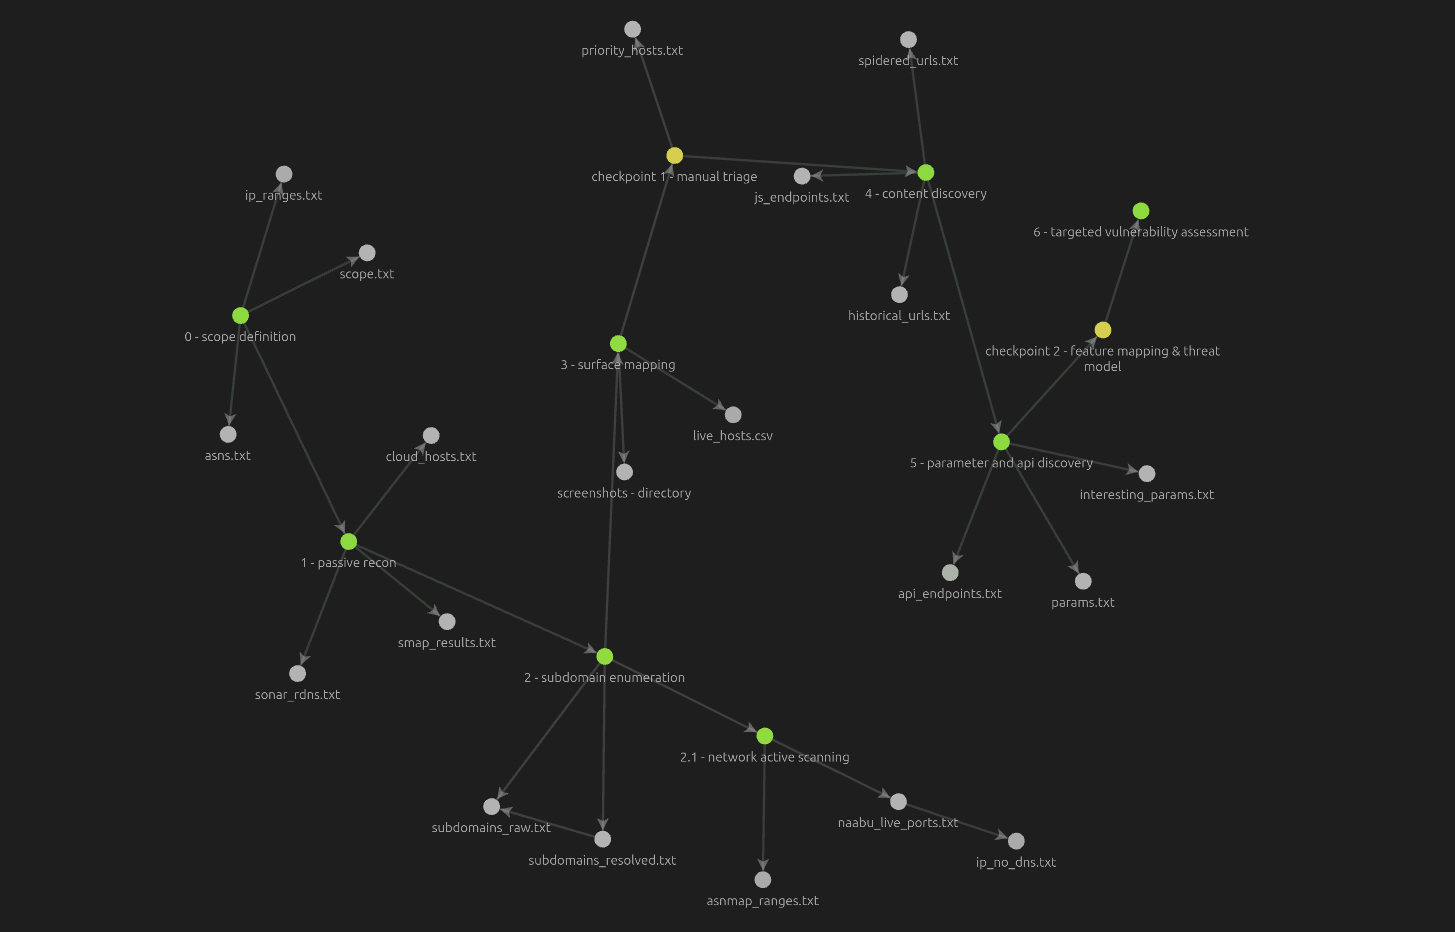
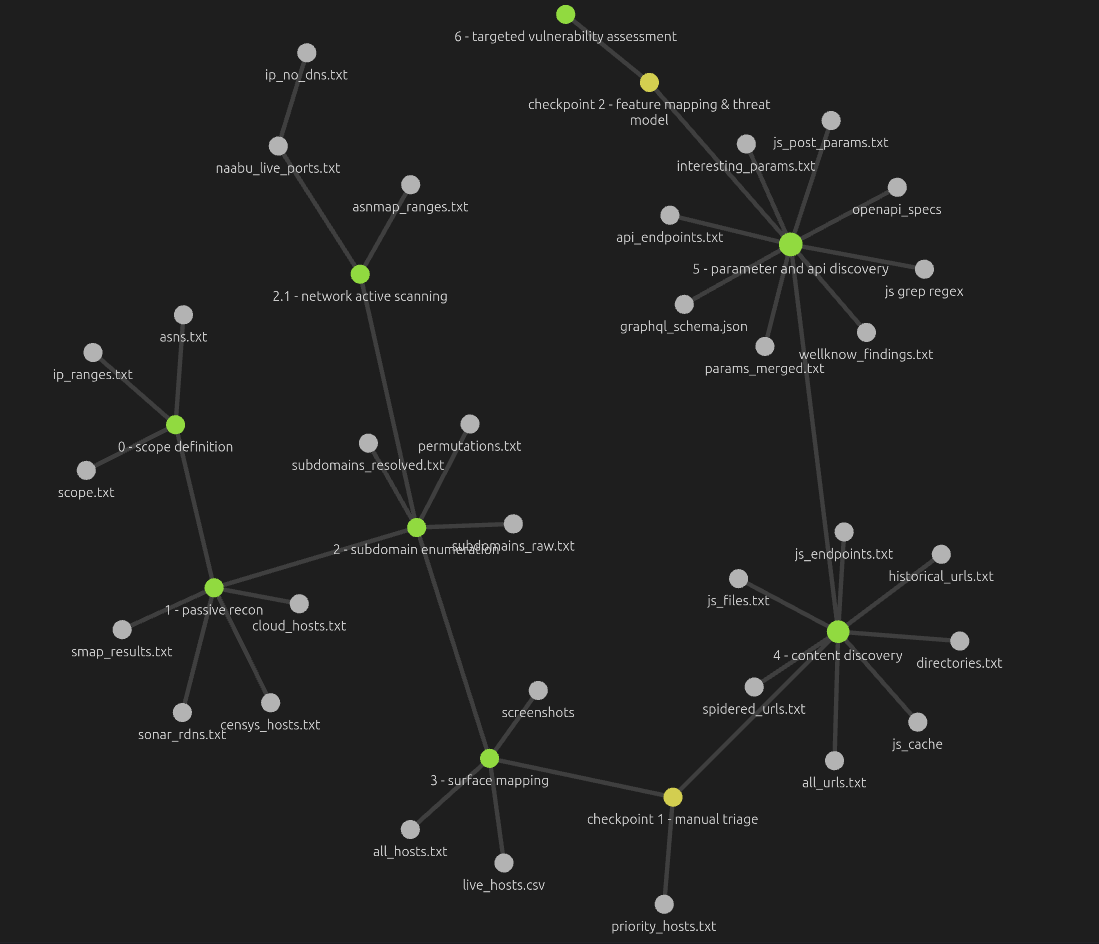
fix: incosistencies between obsidian/dataflow_recon and directory structure (readme)

diff --git a/obsidian/dataflow_recon/5 - parameter and api discovery.md b/obsidian/dataflow_recon/5 - parameter and api discovery.md
@@ -1,40 +1,54 @@
 #phase
 
 paramspider + arjun
-	paramspider mines wayback for param URLs. arjun actively discovers hidden params on each endpoint. merge outputs.
+	paramspider mines wayback for param URLs
+	arjun actively discovers hidden params on each endpoint
+	merge outputs into params_merged.txt
+		`paramspider -l priority_hosts.txt -o paramspider_raw.txt`
+		`arjun -i priority_hosts.txt -oT arjun_raw.txt`
+		`cat paramspider_raw.txt arjun_raw.txt | anew params_merged.txt`
 
 unfurl
-	cat historical_urls.txt spidered_urls.txt js_endpoints.txt | unfurl keypairs | anew to extract key=value pairs
+	`extract key=value pairs from all collected URLs` 
+	`cat all_urls.txt | unfurl keypairs | anew params_merged.txt`
 
 gf
-	cat historical_urls.txt spidered_urls.txt js_endpoints.txt | gf ssrf
+	filter params_merged.txt and all_urls.txt by vulnerability pattern
+	`cat all_urls.txt | gf ssrf >> interesting/gf_ssrf.txt`
+	`cat all_urls.txt | gf redirect >> interesting/gf_redirect.txt`
+	`cat all_urls.txt | gf xss >> interesting/gf_xss.txt`
 
 kiterunner
-	`kr scan target.com -w routes.kite -A=apiroutes-210228:20000 -x 10` — brute force API routes using the assetnote dataset.
+	`kr scan target.com -w routes.kite -A=apiroutes-210228:20000 -x 10`
 
 /.well-know/ probing
 	check openid-configuration, security.txt, assetlinks.json, mta-sts.txt 
 		-> often leaks auth endpoints and OAuth flows
 
-js bundle analysis (SSRF):
-	- download all live JS files
-		`cat phase5_params/js_files.txt | xargs -P10 -I@ bash -c \ 'curl -sk "@" -o "phase4_content/js_cache/$(echo @ | md5sum | cut -d" " -f1).js"'`
-	- grep the cached bundle for SSRF url patterns
-		`grep -rhE \ "(fetch|axios|xhr|http|request)\s*\(?\s*['\"]?\s*/[a-z].*[?&](url|src|href|callback|redirect|proxy|load|import|fetch|endpoint)=" \ phase4_content/js_cache/ >> phase5_params/js_post_params.txt`
-	- POST calls with url-shaped body params
-		`grep -rhE \ "\.post\s*\(.*['\"]url['\"]|\.post\s*\(.*['\"]src['\"]|\.post\s*\(.*['\"]href['\"]" \ phase4_content/js_cache/ >> phase5_params/js_post_params.txt`
-	- look for string patterns suggesting SSRF
-		`grep -rhE \ "(webhook|callback|import|export|render|screenshot|pdf|preview|fetch|proxy)\s*[:\(=].*https?://" \ phase4_content/js_cache/ >> phase5_params/js_post_params.txt`
-	
+openapi / swagger discovery
+	probe each priority host for schema at common paths:
+		/api-docs, /swagger.json, /openapi.json, /v1/api-docs, /redoc, /docs
+
+graphql introspection
+	`POST {"query":"{ __schema { types { name fields { name } } } }"} to /graphql -> look for mutations/fields with argument names: url, webhookUrl, callbackUrl, importUrl`
+
+js bundle analysis (SSRF surface) 
+	download all live JS files from js_files.txt into js_cache/ named by md5 hash 
+	`cat js_files.txt | xargs -P10 -I@ bash -c  'curl -sk "@" -o "phase4_content/js_cache/$(echo @ | md5sum | cut -d" " -f1).js"'`
+	[[js grep regex]]
+
 -- input:
-	historical_urls.txt
-	spidered_urls.txt
-	js_endpoints.txt
+	all_urls.txt
+	js_files.txt
+	priority_hosts.txt
 
 -- output:
-	[[params.txt]]
+	[[params_merged.txt]]
 	[[api_endpoints.txt]]
-	[[interesting_params.txt]]
+	[[wellknow_findings.txt]]
+	[[openapi_specs]]
+	[[graphql_schema.json]]
 	[[js_post_params.txt]]
+	[[interesting_params.txt]]
 
 -- [[checkpoint 2 - feature mapping & threat model]]

diff --git a/obsidian/dataflow_recon/4 - content discovery.md b/obsidian/dataflow_recon/4 - content discovery.md
@@ -2,16 +2,25 @@
 
 gau + wayckurls
 	pull historical URLs for every priority host:
-		cat priority_hosts.txt | gau --threads 100 | anew historical_urls.txt
+	`cat priority_hosts.txt | gau --threads 100 | anew historical_urls.txt`
+	`cat priority_hosts.txt | waybackurls | anew historical_urls.txt`
 
 bbot spider
 	web spidering web servers that indicates features, links and some kind of navigation
-		bbot -t target.com -p spider
-		
-		complements wayback with current live links
+	`bbot -t target.com -p spider`
+
+ffuf 
+	directory brute force with context-adapted assetnote wordlists adjust command based on target brute forcing policies 
+	`ffuf -u https://<domain_example>/FUZZ -w httparchive_apiroutes_date.txt -mc 200 -fw <404_word_count>`
 
 gau -> grep JS filter -> linkfinder
-	gau | grep -iE '\.js' | grep -ivE '(\.jsp|\.json)' | anti-burl | linkfinder
+	extract live JS files and pull internal endpoints from them
+	`gau domain | grep -iE '.js' | grep -ivE '(.jsp|.json)' > js_files_raw.txt`
+	`cat js_files_raw.txt | anti-burl | awk '{print $4}' | anew js_files.txt`
+	`xargs -a js_files.txt -n 1 -I@ bash -c "linkfinder -i @ -o cli" >> js_endpoints.txt`
+	
+merge everything into single source of truth
+`cat historical_urls.txt spidered_urls.txt js_endpoints.txt directories.txt | anew all_urls.txt`
 
 -- input:
 	priority_hosts.txt
@@ -19,6 +28,10 @@ gau -> grep JS filter -> linkfinder
 -- output:
 	[[historical_urls.txt]]
 	[[spidered_urls.txt]]
+	[[directories.txt]]
+	[[js_files.txt]]
+	[[js_cache]]
 	[[js_endpoints.txt]]
+	[[all_urls.txt]]
 	
 next phase -> [[5 - parameter and api discovery]]

diff --git a/obsidian/dataflow_recon/2.1 - network active scanning.md b/obsidian/dataflow_recon/2.1 - network active scanning.md
@@ -1,18 +1,19 @@
 #phase 
 
-active
-	asnmap
-		resolves ASN numbers into their full owned CIDR (Classless Inter-Domain Routing) ranges
-			complements the manually compiled ip_ranges.txt that weren't obvious from BGP lookups
+asnmap
+	resolves ASN numbers into their full owned CIDR (Classless Inter-Domain Routing) ranges
+		complements the manually compiled ip_ranges.txt that weren't obvious from BGP lookups
+	`cat asns.txt | asnmap -silent >> asnmap_ranges.txt` 
+	merge with ip_ranges.txt and deduplicate into a single authoritative CIDR list
+
+naabu
+	feed it the merged CIDR list and target web-relevant ports only
+		OBS: going borad in port scanning wastes time and maximises noise
 	
-	naabu
-		feed it the merged CIDR list and target web-relevant ports only
-			OBS: going borad in port scanning wastes time and maximises noise
-		
-		cat asnmap_ranges.txt | naabu -p 80,443,8080,8443,8888,9000 -silent -o naabu_live_ports.txt
-	
-	grab service banners
-		echo <ASN_number> | asnmap -silent | naabu -nmap-cli 'nmap -sV'
+	cat asnmap_ranges.txt | naabu -p 80,443,8080,8443,8888,9000 -silent -o naabu_live_ports.txt
+
+grab service banners
+	echo <ASN_number> | asnmap -silent | naabu -nmap-cli 'nmap -sV'
 
 -- input:
 	asns.txt

diff --git a/README.md b/README.md
@@ -28,9 +28,6 @@ engagements/
     │   └── sonar_rdns.txt
     │
     ├── phase2_subdomains/
-    │   ├── subfinder_raw.txt
-    │   ├── amass_raw.txt
-    │   ├── chaos_raw.txt
     │   ├── subdomains_raw.txt
     │   ├── permutations.txt
     │   └── subdomains_resolved.txt
@@ -38,12 +35,12 @@ engagements/
     ├── phase2.1_network_active/
     │   ├── asnmap_ranges.txt
     │   ├── naabu_live_ports.txt
-    │   ├── nmap_banners.txt
     │   └── ip_no_dns.txt
     │
     ├── phase3_surface/
-    │   ├── live_hosts.csv
-    │   └── screenshots/
+    │   ├── all_hosts.txt
+    │   └── live_hosts.csv
+    │   └── screenshots/   
     │
     ├── priority_hosts.txt
     │
@@ -57,8 +54,6 @@ engagements/
     │   └── all_urls.txt
     │
     ├── phase5_params/
-    │   ├── paramspider_raw.txt
-    │   ├── arjun_raw.txt
     │   ├── params_merged.txt
     │   ├── api_endpoints.txt
     │   ├── wellknown_findings.txt

diff --git a/obsidian/dataflow_recon/1 - passive recon.md b/obsidian/dataflow_recon/1 - passive recon.md
@@ -4,7 +4,7 @@
 
 kaeferjaer.gay
 	dowload ssl cert snapshots for cloud ips.
-		cat \*.txt | grep -F ".target.com" | awk ...
+		`cat *.txt | grep -F ".target.com" | awk -F'--' '{print $2}' | tr '[' ' ' | sed 's/ //' | sed 's/]//' | grep -F ".target.com" | sort -u`
 
 Caduceus
 	active cert scan over port 443 of cloud ip ranges to find hosts sharing the same cert
@@ -15,7 +15,6 @@ gungnir
 Censys / tracxn
 	discover acquired companies and related domains -> expand scope.txt accordingly
 
-
 *network:
 
 smap
@@ -23,7 +22,7 @@ smap
 
 Censys API (paid resource)
 	historical scan data with port and protocol information.
-		->useful to confirm which ips are currently live
+		->useful to confirm which ips are currently live before commiting to active scanning
 
 Project Sonar (Rapid7)
 	open dataset of forward and reverse DNS mappings collected from internet-wide scans.
@@ -38,6 +37,7 @@ Project Sonar (Rapid7)
 
 -- output:
 	[[cloud_hosts.txt]]
+	[[censys_hosts.txt]]
 	[[smap_results.txt]]
 	[[sonar_rdns.txt]]
 

diff --git a/obsidian/dataflow_recon/3 - surface mapping.md b/obsidian/dataflow_recon/3 - surface mapping.md
@@ -1,17 +1,22 @@
 #phase 
 
+convergence point — DNS track (phase 2) and IP track (phase 2.1) merge here
+	merge both tracks before probing 
+	`cat phase2_subdomains/subdomains_resolved.txt phase2.1_network_active/ip_no_dns.txt | anew all_hosts.txt`
+
 httpx
-	cat subdomains_resolved.txt | httpx -status-code -title -content-length -web-server -tech-detect -asn -no-color -follow-redirects -t 10 -ports 80,8080,443,8443,4443,8888 -o live_hosts.csv
+	`cat subdomains_resolved.txt | httpx -status-code -title -content-length -web-server -tech-detect -asn -no-color -follow-redirects -t 10 -ports 80,8080,443,8443,4443,8888 -o live_hosts.csv`
 
 gowitness
-	`gowitness file -f subdomains_resolved.txt -P ./screenshots` — screenshot every live host for visual review.
+	`gowitness file -f subdomains_resolved.txt -P ./screenshots
 
 -- input:
 	subdomains_resolved.txt
 
 -- output:
+	[[all_hosts.txt]]
 	[[live_hosts.csv]]
-	[[screenshots - directory]]
+	[[screenshots]]
 
 -- [[checkpoint 1 - manual triage]]
 

diff --git a/obsidian/dataflow_recon/js grep regex.md b/obsidian/dataflow_recon/js grep regex.md
@@ -1,0 +1,14 @@
+grep cached bundles for server-side URL fetch patterns
+	`grep -rhE \`
+	  `"(fetch|axios|xhr|http|request)\s*\(?\s*['\"]?\s*/[a-z].*[?&](url|src|href|callback|redirect|proxy|load|import|fetch|endpoint)=" \`
+	  `phase4_content/js_cache/ >> js_post_params.txt`
+
+grep POST calls with url-shaped body params
+	`grep -rhE \`
+	  `"\.post\s*\(.*['\"]url['\"]|\.post\s*\(.*['\"]src['\"]|\.post\s*\(.*['\"]href['\"]" \`
+	  `phase4_content/js_cache/ >> js_post_params.txt`
+
+grep verbs that imply server-side outbound connection
+	`grep -rhE \`
+	  `"(webhook|callback|import|export|render|screenshot|pdf|preview|fetch|proxy)\s*[:\(=].*https?://" \`
+	  `phase4_content/js_cache/ >> js_post_params.txt`

diff --git a/obsidian/dataflow_recon/6 - targeted vulnerability assessment.md b/obsidian/dataflow_recon/6 - targeted vulnerability assessment.md
@@ -10,9 +10,8 @@ IDOR/access control
 
 SSRF
 	filter interesting_params.txt for: 
-		url=, redirect=,callback=,next=
-		patterns (gf ssrf)
-	probe with internal cloud metadata IPs from ip_ranges.txt
+		url=, redirect=, callback=, next=, src=, href=, proxy=, import=, fetch=, endpoint=
+	check js_post_params.txt for server-side URL fetch patterns found in JS bundles
 
 open redirect
 	gf redirect on all_urls.txt

diff --git a/obsidian/dataflow_recon/checkpoint 2 - feature mapping & threat model.md b/obsidian/dataflow_recon/checkpoint 2 - feature mapping & threat model.md
@@ -2,6 +2,8 @@
 
 map application features from all_urls.txt and api_endpoints.txt: auth flows, user roles, file uploads, redirects, payment logic
 
+define threat model:
+
 	what is the worst that could happen to this org?
 
 builds and mindmap with all the data collected so far that can picture the threat model

diff --git a/obsidian/dataflow_recon/checkpoint 1 - manual triage.md b/obsidian/dataflow_recon/checkpoint 1 - manual triage.md
@@ -1,10 +1,7 @@
 #checkpoint
 
 review screenshots in gowtiness
-annotate live_hosts.csv with a priority column
-	high
-	medium
-	skip
+annotate live_hosts.csv with priority (high / medium / skip)
 
 if ip_no_dns.txt was generated in 2.1 phase review carefully this ips
 

diff --git a/obsidian/dataflow_recon/0 - scope definition.md b/obsidian/dataflow_recon/0 - scope definition.md
@@ -1,6 +1,6 @@
 #phase
 
-manually see the program scope and aphex domains
+manually see the program scope and apex domains
 
 bgp.he.net / ARIN
 	look up the company's ASNs and owned IP ranges. Add IP CIDRs to scope.

diff --git a/obsidian/dataflow_recon/2 - subdomain enumeration.md b/obsidian/dataflow_recon/2 - subdomain enumeration.md
@@ -19,6 +19,7 @@ gobuster dns + vhost
 -- output:
 	[[subdomains_raw.txt]]
 	[[subdomains_resolved.txt]]
+	[[permutations.txt]]
 
 subphase -> [[2.1 - network active scanning]]
 next phase -> [[3 - surface mapping]]
